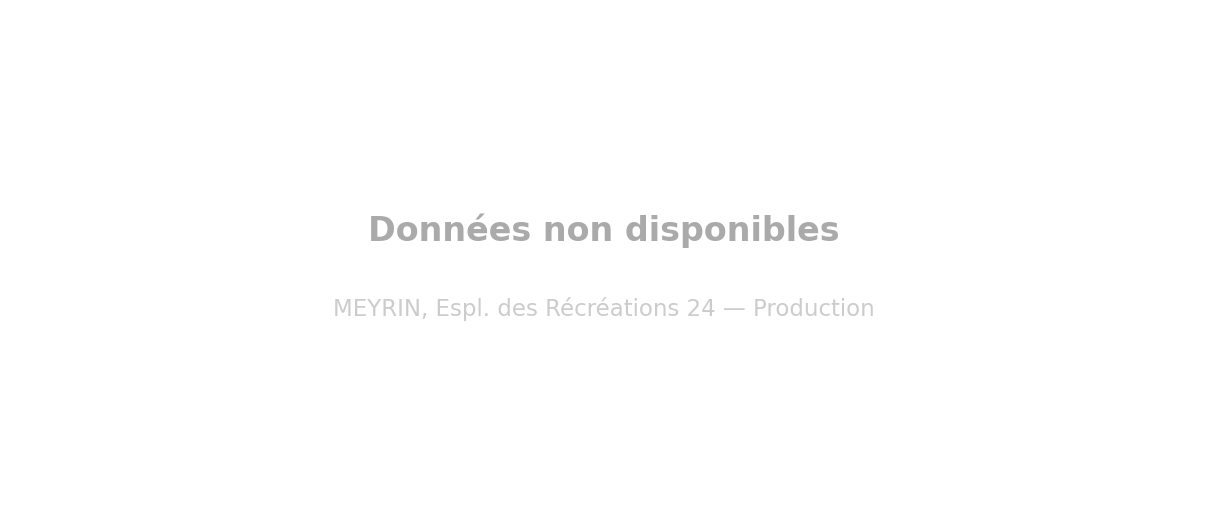
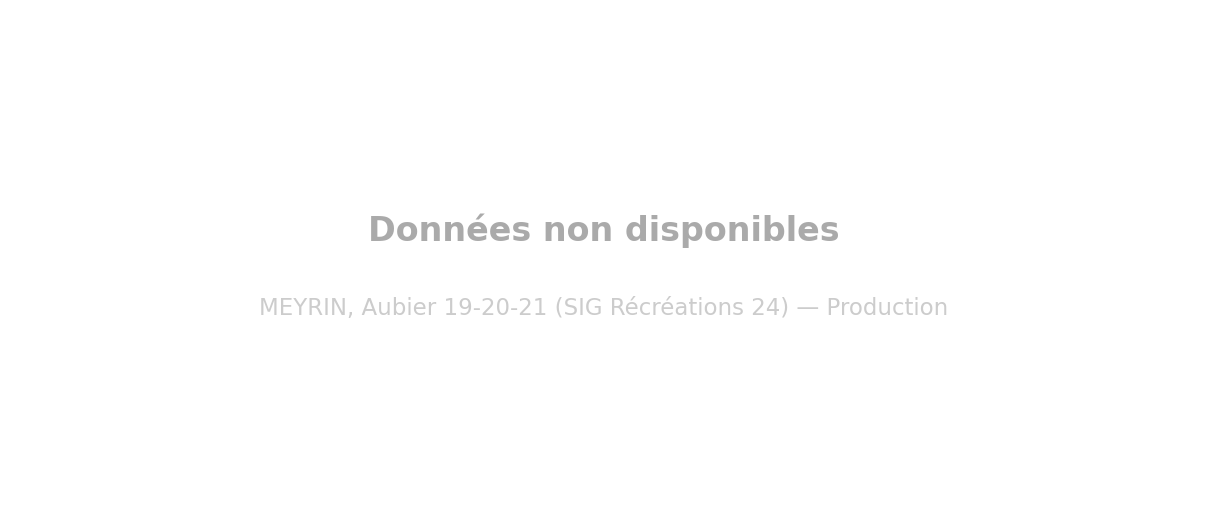
Add Installations dropdown, measured Meyrin production, Aubier naming
- Header: dropdown under Installations linking to the three projects.
- Meyrin production is now measured (two SIG meters cover all three
  buildings): about 78 000 kWh/an instead of the nominal 130 000; homepage
  total updated to 209 MWh.
- Rename Meyrin Recreations 24/26 to Aubier 19-20-21 on the site and in the
  charts, keeping the Recreations names only for the SIG meters.
- Regenerate charts; update README.

Changed region(s): [[0.2146, 0.5917, 0.797, 0.6213]]

diff --git a/docs/installation-meyrin.html b/docs/installation-meyrin.html
@@ -3,8 +3,8 @@
 <head>
 <meta charset="utf-8">
 <meta name="viewport" content="width=device-width, initial-scale=1">
-<title>Meyrin, Espl. des Récréations 24 &amp; 26 — Enerko</title>
-<meta name="description" content="Installations photovoltaïques Enerko de l'Esplanade des Récréations à Meyrin : 121 kWc, 130 000 kWh/an, 60% d'autoconsommation.">
+<title>Meyrin, Prom. de l'Aubier 19-20-21 — Enerko</title>
+<meta name="description" content="Installations photovoltaïques Enerko de la promenade de l'Aubier à Meyrin : 121 kWc, 78 000 kWh/an, 60% d'autoconsommation.">
 <link rel="stylesheet" href="styles.css">
 </head>
 <body>
@@ -19,7 +19,14 @@
     <a href="index.html">Accueil</a>
     <a href="enerko.html">Enerko</a>
     <a href="equipe.html">Équipe</a>
-    <a href="installations.html" aria-current="page">Installations</a>
+    <div class="nav-dropdown">
+      <a href="installations.html" aria-current="page" aria-haspopup="true">Installations</a>
+      <ul class="nav-dropdown__menu" aria-label="Installations">
+        <li><a href="installation-soubeyran.html">Genève, Rue Soubeyran 7</a></li>
+        <li><a href="installation-meyrin.html" aria-current="page">Meyrin, Aubier 19-20-21</a></li>
+        <li><a href="installation-plan-les-ouates.html">Plan-les-Ouates, Ch. de Vers 8</a></li>
+      </ul>
+    </div>
     <a href="autoconsommer.html">Autoconsommer</a>
     <a href="investir.html">Investir</a>
     <a href="contact.html">Contact</a>
@@ -33,12 +40,12 @@
     <div class="wrap">
       <a class="page-hero__back" href="installations.html">← Toutes les installations</a>
       <p class="kicker kicker--orange" style="margin-top:1.5rem">Installation 02 — Meyrin</p>
-      <h1 id="fiche-titre" class="display-lg">Espl. des Récréations<br>24&nbsp;&amp;&nbsp;26</h1>
+      <h1 id="fiche-titre" class="display-lg">Prom. de l'Aubier<br>19-20-21</h1>
       <p class="install__place">1217 Meyrin — en service depuis 2017 — réalisée par Solstis&nbsp;SA</p>
       <dl class="spec">
         <div><dt>Puissance</dt><dd>121&nbsp;kWc</dd></div>
         <div><dt>Surface</dt><dd>740&nbsp;m²</dd></div>
-        <div><dt>Production</dt><dd><!--stat:meyrin.production_kwh-->130&nbsp;000<!--/stat-->&nbsp;kWh/an</dd></div>
+        <div><dt>Production</dt><dd><!--stat:meyrin.production_kwh-->78&nbsp;000<!--/stat-->&nbsp;kWh/an</dd></div>
         <div><dt>Coût</dt><dd>200&nbsp;000&nbsp;CHF</dd></div>
         <div><dt>Rétribution unique</dt><dd>55&nbsp;000&nbsp;CHF</dd></div>
       </dl>
@@ -55,12 +62,12 @@
 
   <!-- ============================================================
        PHOTO SLOT (stand-in actuel : photo2_enerko.jpg) : le toit des
-       Récréations 24–26 vu de haut — vue drone montrant les deux
+       Aubier 19-20-21 vu de haut — vue drone montrant les deux
        bâtiments et l'étendue des panneaux.
        ============================================================ -->
   <figure class="hero hero--install" aria-label="Photo de l'installation">
     <img class="hero__img" src="assets/photos/photo2_enerko.jpg"
-         alt="Toiture photovoltaïque de l'Esplanade des Récréations à Meyrin au coucher du soleil"
+         alt="Toiture photovoltaïque de la promenade de l'Aubier à Meyrin au coucher du soleil"
          width="1280" height="854">
   </figure>
 
@@ -75,9 +82,10 @@
         <p>La coopérative Enerko a financé les installations photovoltaïques sur les
         toitures des trois bâtiments de la coopérative équilibre, à la promenade de
         l'Aubier 19-20-21. La coopérative Enerko a également monté et gère
-        l'exploitation des trois communautés d'autoconsommateurs au sein des
+        l'exploitation des trois communautés d'autoconsommateurs au sein des trois
         bâtiments, ceci afin de maximiser l'autoconsommation de l'électricité solaire
-        produite en toiture.</p>
+        produite en toiture. Les données sont mésurés au moyen de deux compteurs
+        d'énergie qui couvrent l'ensemble de la production électrique des bâtiments.</p>
       </div>
     </div>
 
@@ -89,7 +97,7 @@
             <div><dt>Modules</dt><dd>447 × Canadian Solar 270&nbsp;Wc (polycristallin)</dd></div>
             <div><dt>Puissance totale</dt><dd>121&nbsp;kWc</dd></div>
             <div><dt>Onduleurs</dt><dd>6 × SMA Sunny Tripower</dd></div>
-            <div><dt>Production annuelle</dt><dd>≈&nbsp;<!--stat:meyrin.production_kwh-->130&nbsp;000<!--/stat-->&nbsp;kWh (estimée, ≈&nbsp;<!--stat:meyrin.logements-->45<!--/stat--> logements genevois)</dd></div>
+            <div><dt>Production annuelle</dt><dd>≈&nbsp;<!--stat:meyrin.production_kwh-->78&nbsp;000<!--/stat-->&nbsp;kWh (moyenne mesurée 2023–2025, ≈&nbsp;<!--stat:meyrin.logements-->27<!--/stat--> logements genevois)</dd></div>
           </dl>
           <div class="prose">
             <p>Les modules sont posés sur les toitures plates, en dômes Est-Ouest ou

diff --git a/docs/index.html b/docs/index.html
@@ -19,7 +19,14 @@
     <a href="index.html" aria-current="page">Accueil</a>
     <a href="enerko.html">Enerko</a>
     <a href="equipe.html">Équipe</a>
-    <a href="installations.html">Installations</a>
+    <div class="nav-dropdown">
+      <a href="installations.html" aria-haspopup="true">Installations</a>
+      <ul class="nav-dropdown__menu" aria-label="Installations">
+        <li><a href="installation-soubeyran.html">Genève, Rue Soubeyran 7</a></li>
+        <li><a href="installation-meyrin.html">Meyrin, Aubier 19-20-21</a></li>
+        <li><a href="installation-plan-les-ouates.html">Plan-les-Ouates, Ch. de Vers 8</a></li>
+      </ul>
+    </div>
     <a href="autoconsommer.html">Autoconsommer</a>
     <a href="investir.html">Investir</a>
     <a href="contact.html">Contact</a>
@@ -66,7 +73,7 @@
           <span class="stat__label">puissance installée</span>
         </li>
         <li class="stat">
-          <span class="stat__value"><!--stat:total.production_mwh-->261<!--/stat--><span class="stat__unit">MWh</span></span>
+          <span class="stat__value"><!--stat:total.production_mwh-->209<!--/stat--><span class="stat__unit">MWh</span></span>
           <span class="stat__label">production annuelle</span>
         </li>
         <li class="stat">
@@ -169,7 +176,7 @@
 
       <!-- ============================================================
            PHOTO SLOT nº4 (stand-in actuel : photo2_enerko.jpg) :
-           photo du toit des Récréations 24–26 à Meyrin — c'est votre
+           photo du toit de l'Aubier 19-20-21 à Meyrin — c'est votre
            plus grande centrale, montrez l'étendue : vue drone ou depuis
            un toit voisin. À défaut : « aerial solar rooftop apartment
            building » (Pexels), cadrage 4:3.
@@ -177,17 +184,17 @@
       <article class="install">
         <div class="install__media">
           <img src="assets/photos/photo2_enerko.jpg"
-               alt="Toiture photovoltaïque de l'Esplanade des Récréations à Meyrin"
+               alt="Toiture photovoltaïque de la promenade de l'Aubier à Meyrin"
                width="1280" height="854" loading="lazy">
         </div>
         <div class="install__body">
           <p class="install__index">02</p>
-          <h3 class="install__name">Espl. des Récréations 24&nbsp;&amp;&nbsp;26</h3>
+          <h3 class="install__name">Prom. de l'Aubier 19-20-21</h3>
           <p class="install__place">1217 Meyrin — en service depuis 2017</p>
           <dl class="spec">
             <div><dt>Puissance</dt><dd>121&nbsp;kWc</dd></div>
             <div><dt>Surface</dt><dd>740&nbsp;m²</dd></div>
-            <div><dt>Production</dt><dd><!--stat:meyrin.production_kwh-->130&nbsp;000<!--/stat-->&nbsp;kWh/an</dd></div>
+            <div><dt>Production</dt><dd><!--stat:meyrin.production_kwh-->78&nbsp;000<!--/stat-->&nbsp;kWh/an</dd></div>
           </dl>
           <div class="meter" data-meter="meyrin.autoconso_pct" role="img" aria-label="Autoconsommation : 60 pour cent">
             <div class="meter__head"><span>Autoconsommation</span><span class="meter__value">60&nbsp;%</span></div>

diff --git a/docs/installations.html b/docs/installations.html
@@ -19,7 +19,14 @@
     <a href="index.html">Accueil</a>
     <a href="enerko.html">Enerko</a>
     <a href="equipe.html">Équipe</a>
-    <a href="installations.html" aria-current="page">Installations</a>
+    <div class="nav-dropdown">
+      <a href="installations.html" aria-current="page" aria-haspopup="true">Installations</a>
+      <ul class="nav-dropdown__menu" aria-label="Installations">
+        <li><a href="installation-soubeyran.html">Genève, Rue Soubeyran 7</a></li>
+        <li><a href="installation-meyrin.html">Meyrin, Aubier 19-20-21</a></li>
+        <li><a href="installation-plan-les-ouates.html">Plan-les-Ouates, Ch. de Vers 8</a></li>
+      </ul>
+    </div>
     <a href="autoconsommer.html">Autoconsommer</a>
     <a href="investir.html">Investir</a>
     <a href="contact.html">Contact</a>
@@ -65,12 +72,12 @@
 
         <article class="install-card">
           <p class="install__index" style="color:var(--orange-encre)">02</p>
-          <h2 class="install-card__name">Meyrin, Espl. des Récréations 24 &amp; 26 (3 toitures)</h2>
-          <p class="install-card__address">Esplanade des Récréations 24 et 26, 1217 Meyrin, Suisse</p>
+          <h2 class="install-card__name">Meyrin, Prom. de l'Aubier 19-20-21 (3 toitures)</h2>
+          <p class="install-card__address">Promenade de l'Aubier 19-20-21, 1217 Meyrin, Suisse</p>
           <dl class="spec">
             <div><dt>Surface</dt><dd>740&nbsp;m²</dd></div>
             <div><dt>Puissance</dt><dd>121&nbsp;kWc</dd></div>
-            <div><dt>Production</dt><dd><!--stat:meyrin.production_kwh-->130&nbsp;000<!--/stat-->&nbsp;kWh/an</dd></div>
+            <div><dt>Production</dt><dd><!--stat:meyrin.production_kwh-->78&nbsp;000<!--/stat-->&nbsp;kWh/an</dd></div>
             <div><dt>Service depuis</dt><dd>2017</dd></div>
           </dl>
           <div class="meter" data-meter="meyrin.autoconso_pct" role="img" aria-label="Autoconsommation : 60 pour cent">
@@ -217,13 +224,13 @@
   var SITES_BY_TYPE = {
     "consommation": [
       { id: "site_a", label: "GENÈVE, Rue Soubeyran 7 (depuis 2017-06)" },
-      { id: "site_b", label: "MEYRIN, Espl. des Récréations 24 (depuis 2017-11)" },
-      { id: "site_c", label: "MEYRIN, Espl. des Récréations 26 (depuis 2018-01)" },
+      { id: "site_b", label: "MEYRIN, Aubier 19-20-21 · compteur SIG Récréations 24 (depuis 2017-11)" },
+      { id: "site_c", label: "MEYRIN, Aubier 19-20-21 · compteur SIG Récréations 26 (depuis 2018-01)" },
       { id: "site_g", label: "PLAN-LES-OUATES, Ch. de Vers 8 (depuis 2022-06)" }
     ],
     "production": [
-      { id: "site_c", label: "MEYRIN, Espl. des Récréations 26 (depuis 2018-01)" },
-      { id: "site_d", label: "MEYRIN, Espl. des Récréations 24 (depuis 2018-01)" },
+      { id: "site_c", label: "MEYRIN, Aubier 19-20-21 · compteur SIG Récréations 26 (depuis 2018-01)" },
+      { id: "site_d", label: "MEYRIN, Aubier 19-20-21 · compteur SIG Récréations 24 (depuis 2018-01)" },
       { id: "site_f", label: "PLAN-LES-OUATES, Ch. de Vers 8 (depuis 2022-06)" }
     ]
   };

diff --git a/docs/styles.css b/docs/styles.css
@@ -156,6 +156,27 @@ a { color: inherit; }
 }
 .site-nav__cta:hover { background: var(--craie); }
 
+/* Menu déroulant « Installations » : s'ouvre au survol ou au focus clavier ;
+   le lien parent reste cliquable (page d'ensemble), utile au tactile. */
+.nav-dropdown { position: relative; }
+.nav-dropdown > a::after {
+  content: ""; display: inline-block; margin-left: .4rem; vertical-align: .15em;
+  border: .3rem solid transparent; border-top-color: currentColor; border-bottom-width: 0;
+}
+.nav-dropdown__menu {
+  display: none; position: absolute; top: 100%; left: -.75rem; z-index: 60;
+  min-width: 15rem; margin: 0; padding: .5rem 0 .25rem; list-style: none;
+  background: var(--noir-2); border: 1px solid var(--trait-sombre);
+}
+.nav-dropdown:hover .nav-dropdown__menu,
+.nav-dropdown:focus-within .nav-dropdown__menu { display: block; }
+.nav-dropdown__menu a {
+  display: block; padding: .5rem .75rem; white-space: nowrap;
+  border-bottom: none;
+}
+.nav-dropdown__menu a:hover,
+.nav-dropdown__menu a[aria-current="page"] { color: var(--orange); }
+
 /* ---------- Boutons ---------- */
 .btn-row { display: flex; flex-wrap: wrap; gap: .875rem; margin-top: 2.25rem; }
 .btn {

diff --git a/docs/installation-plan-les-ouates.html b/docs/installation-plan-les-ouates.html
@@ -19,7 +19,14 @@
     <a href="index.html">Accueil</a>
     <a href="enerko.html">Enerko</a>
     <a href="equipe.html">Équipe</a>
-    <a href="installations.html" aria-current="page">Installations</a>
+    <div class="nav-dropdown">
+      <a href="installations.html" aria-current="page" aria-haspopup="true">Installations</a>
+      <ul class="nav-dropdown__menu" aria-label="Installations">
+        <li><a href="installation-soubeyran.html">Genève, Rue Soubeyran 7</a></li>
+        <li><a href="installation-meyrin.html">Meyrin, Aubier 19-20-21</a></li>
+        <li><a href="installation-plan-les-ouates.html" aria-current="page">Plan-les-Ouates, Ch. de Vers 8</a></li>
+      </ul>
+    </div>
     <a href="autoconsommer.html">Autoconsommer</a>
     <a href="investir.html">Investir</a>
     <a href="contact.html">Contact</a>

diff --git a/docs/installation-soubeyran.html b/docs/installation-soubeyran.html
@@ -19,7 +19,14 @@
     <a href="index.html">Accueil</a>
     <a href="enerko.html">Enerko</a>
     <a href="equipe.html">Équipe</a>
-    <a href="installations.html" aria-current="page">Installations</a>
+    <div class="nav-dropdown">
+      <a href="installations.html" aria-current="page" aria-haspopup="true">Installations</a>
+      <ul class="nav-dropdown__menu" aria-label="Installations">
+        <li><a href="installation-soubeyran.html" aria-current="page">Genève, Rue Soubeyran 7</a></li>
+        <li><a href="installation-meyrin.html">Meyrin, Aubier 19-20-21</a></li>
+        <li><a href="installation-plan-les-ouates.html">Plan-les-Ouates, Ch. de Vers 8</a></li>
+      </ul>
+    </div>
     <a href="autoconsommer.html">Autoconsommer</a>
     <a href="investir.html">Investir</a>
     <a href="contact.html">Contact</a>

diff --git a/docs/autoconsommer.html b/docs/autoconsommer.html
@@ -19,7 +19,14 @@
     <a href="index.html">Accueil</a>
     <a href="enerko.html">Enerko</a>
     <a href="equipe.html">Équipe</a>
-    <a href="installations.html">Installations</a>
+    <div class="nav-dropdown">
+      <a href="installations.html" aria-haspopup="true">Installations</a>
+      <ul class="nav-dropdown__menu" aria-label="Installations">
+        <li><a href="installation-soubeyran.html">Genève, Rue Soubeyran 7</a></li>
+        <li><a href="installation-meyrin.html">Meyrin, Aubier 19-20-21</a></li>
+        <li><a href="installation-plan-les-ouates.html">Plan-les-Ouates, Ch. de Vers 8</a></li>
+      </ul>
+    </div>
     <a href="autoconsommer.html" aria-current="page">Autoconsommer</a>
     <a href="investir.html">Investir</a>
     <a href="contact.html">Contact</a>

diff --git a/docs/contact.html b/docs/contact.html
@@ -19,7 +19,14 @@
     <a href="index.html">Accueil</a>
     <a href="enerko.html">Enerko</a>
     <a href="equipe.html">Équipe</a>
-    <a href="installations.html">Installations</a>
+    <div class="nav-dropdown">
+      <a href="installations.html" aria-haspopup="true">Installations</a>
+      <ul class="nav-dropdown__menu" aria-label="Installations">
+        <li><a href="installation-soubeyran.html">Genève, Rue Soubeyran 7</a></li>
+        <li><a href="installation-meyrin.html">Meyrin, Aubier 19-20-21</a></li>
+        <li><a href="installation-plan-les-ouates.html">Plan-les-Ouates, Ch. de Vers 8</a></li>
+      </ul>
+    </div>
     <a href="autoconsommer.html">Autoconsommer</a>
     <a href="investir.html">Investir</a>
     <a href="contact.html" aria-current="page">Contact</a>

diff --git a/docs/enerko.html b/docs/enerko.html
@@ -19,7 +19,14 @@
     <a href="index.html">Accueil</a>
     <a href="enerko.html" aria-current="page">Enerko</a>
     <a href="equipe.html">Équipe</a>
-    <a href="installations.html">Installations</a>
+    <div class="nav-dropdown">
+      <a href="installations.html" aria-haspopup="true">Installations</a>
+      <ul class="nav-dropdown__menu" aria-label="Installations">
+        <li><a href="installation-soubeyran.html">Genève, Rue Soubeyran 7</a></li>
+        <li><a href="installation-meyrin.html">Meyrin, Aubier 19-20-21</a></li>
+        <li><a href="installation-plan-les-ouates.html">Plan-les-Ouates, Ch. de Vers 8</a></li>
+      </ul>
+    </div>
     <a href="autoconsommer.html">Autoconsommer</a>
     <a href="investir.html">Investir</a>
     <a href="contact.html">Contact</a>

diff --git a/docs/equipe.html b/docs/equipe.html
@@ -19,7 +19,14 @@
     <a href="index.html">Accueil</a>
     <a href="enerko.html">Enerko</a>
     <a href="equipe.html" aria-current="page">Équipe</a>
-    <a href="installations.html">Installations</a>
+    <div class="nav-dropdown">
+      <a href="installations.html" aria-haspopup="true">Installations</a>
+      <ul class="nav-dropdown__menu" aria-label="Installations">
+        <li><a href="installation-soubeyran.html">Genève, Rue Soubeyran 7</a></li>
+        <li><a href="installation-meyrin.html">Meyrin, Aubier 19-20-21</a></li>
+        <li><a href="installation-plan-les-ouates.html">Plan-les-Ouates, Ch. de Vers 8</a></li>
+      </ul>
+    </div>
     <a href="autoconsommer.html">Autoconsommer</a>
     <a href="investir.html">Investir</a>
     <a href="contact.html">Contact</a>

diff --git a/docs/investir.html b/docs/investir.html
@@ -19,7 +19,14 @@
     <a href="index.html">Accueil</a>
     <a href="enerko.html">Enerko</a>
     <a href="equipe.html">Équipe</a>
-    <a href="installations.html">Installations</a>
+    <div class="nav-dropdown">
+      <a href="installations.html" aria-haspopup="true">Installations</a>
+      <ul class="nav-dropdown__menu" aria-label="Installations">
+        <li><a href="installation-soubeyran.html">Genève, Rue Soubeyran 7</a></li>
+        <li><a href="installation-meyrin.html">Meyrin, Aubier 19-20-21</a></li>
+        <li><a href="installation-plan-les-ouates.html">Plan-les-Ouates, Ch. de Vers 8</a></li>
+      </ul>
+    </div>
     <a href="autoconsommer.html">Autoconsommer</a>
     <a href="investir.html" aria-current="page">Investir</a>
     <a href="contact.html">Contact</a>

diff --git a/docs/devenir-membre.html b/docs/devenir-membre.html
@@ -19,7 +19,14 @@
     <a href="index.html">Accueil</a>
     <a href="enerko.html">Enerko</a>
     <a href="equipe.html">Équipe</a>
-    <a href="installations.html">Installations</a>
+    <div class="nav-dropdown">
+      <a href="installations.html" aria-haspopup="true">Installations</a>
+      <ul class="nav-dropdown__menu" aria-label="Installations">
+        <li><a href="installation-soubeyran.html">Genève, Rue Soubeyran 7</a></li>
+        <li><a href="installation-meyrin.html">Meyrin, Aubier 19-20-21</a></li>
+        <li><a href="installation-plan-les-ouates.html">Plan-les-Ouates, Ch. de Vers 8</a></li>
+      </ul>
+    </div>
     <a href="autoconsommer.html">Autoconsommer</a>
     <a href="investir.html">Investir</a>
     <a href="contact.html">Contact</a>
